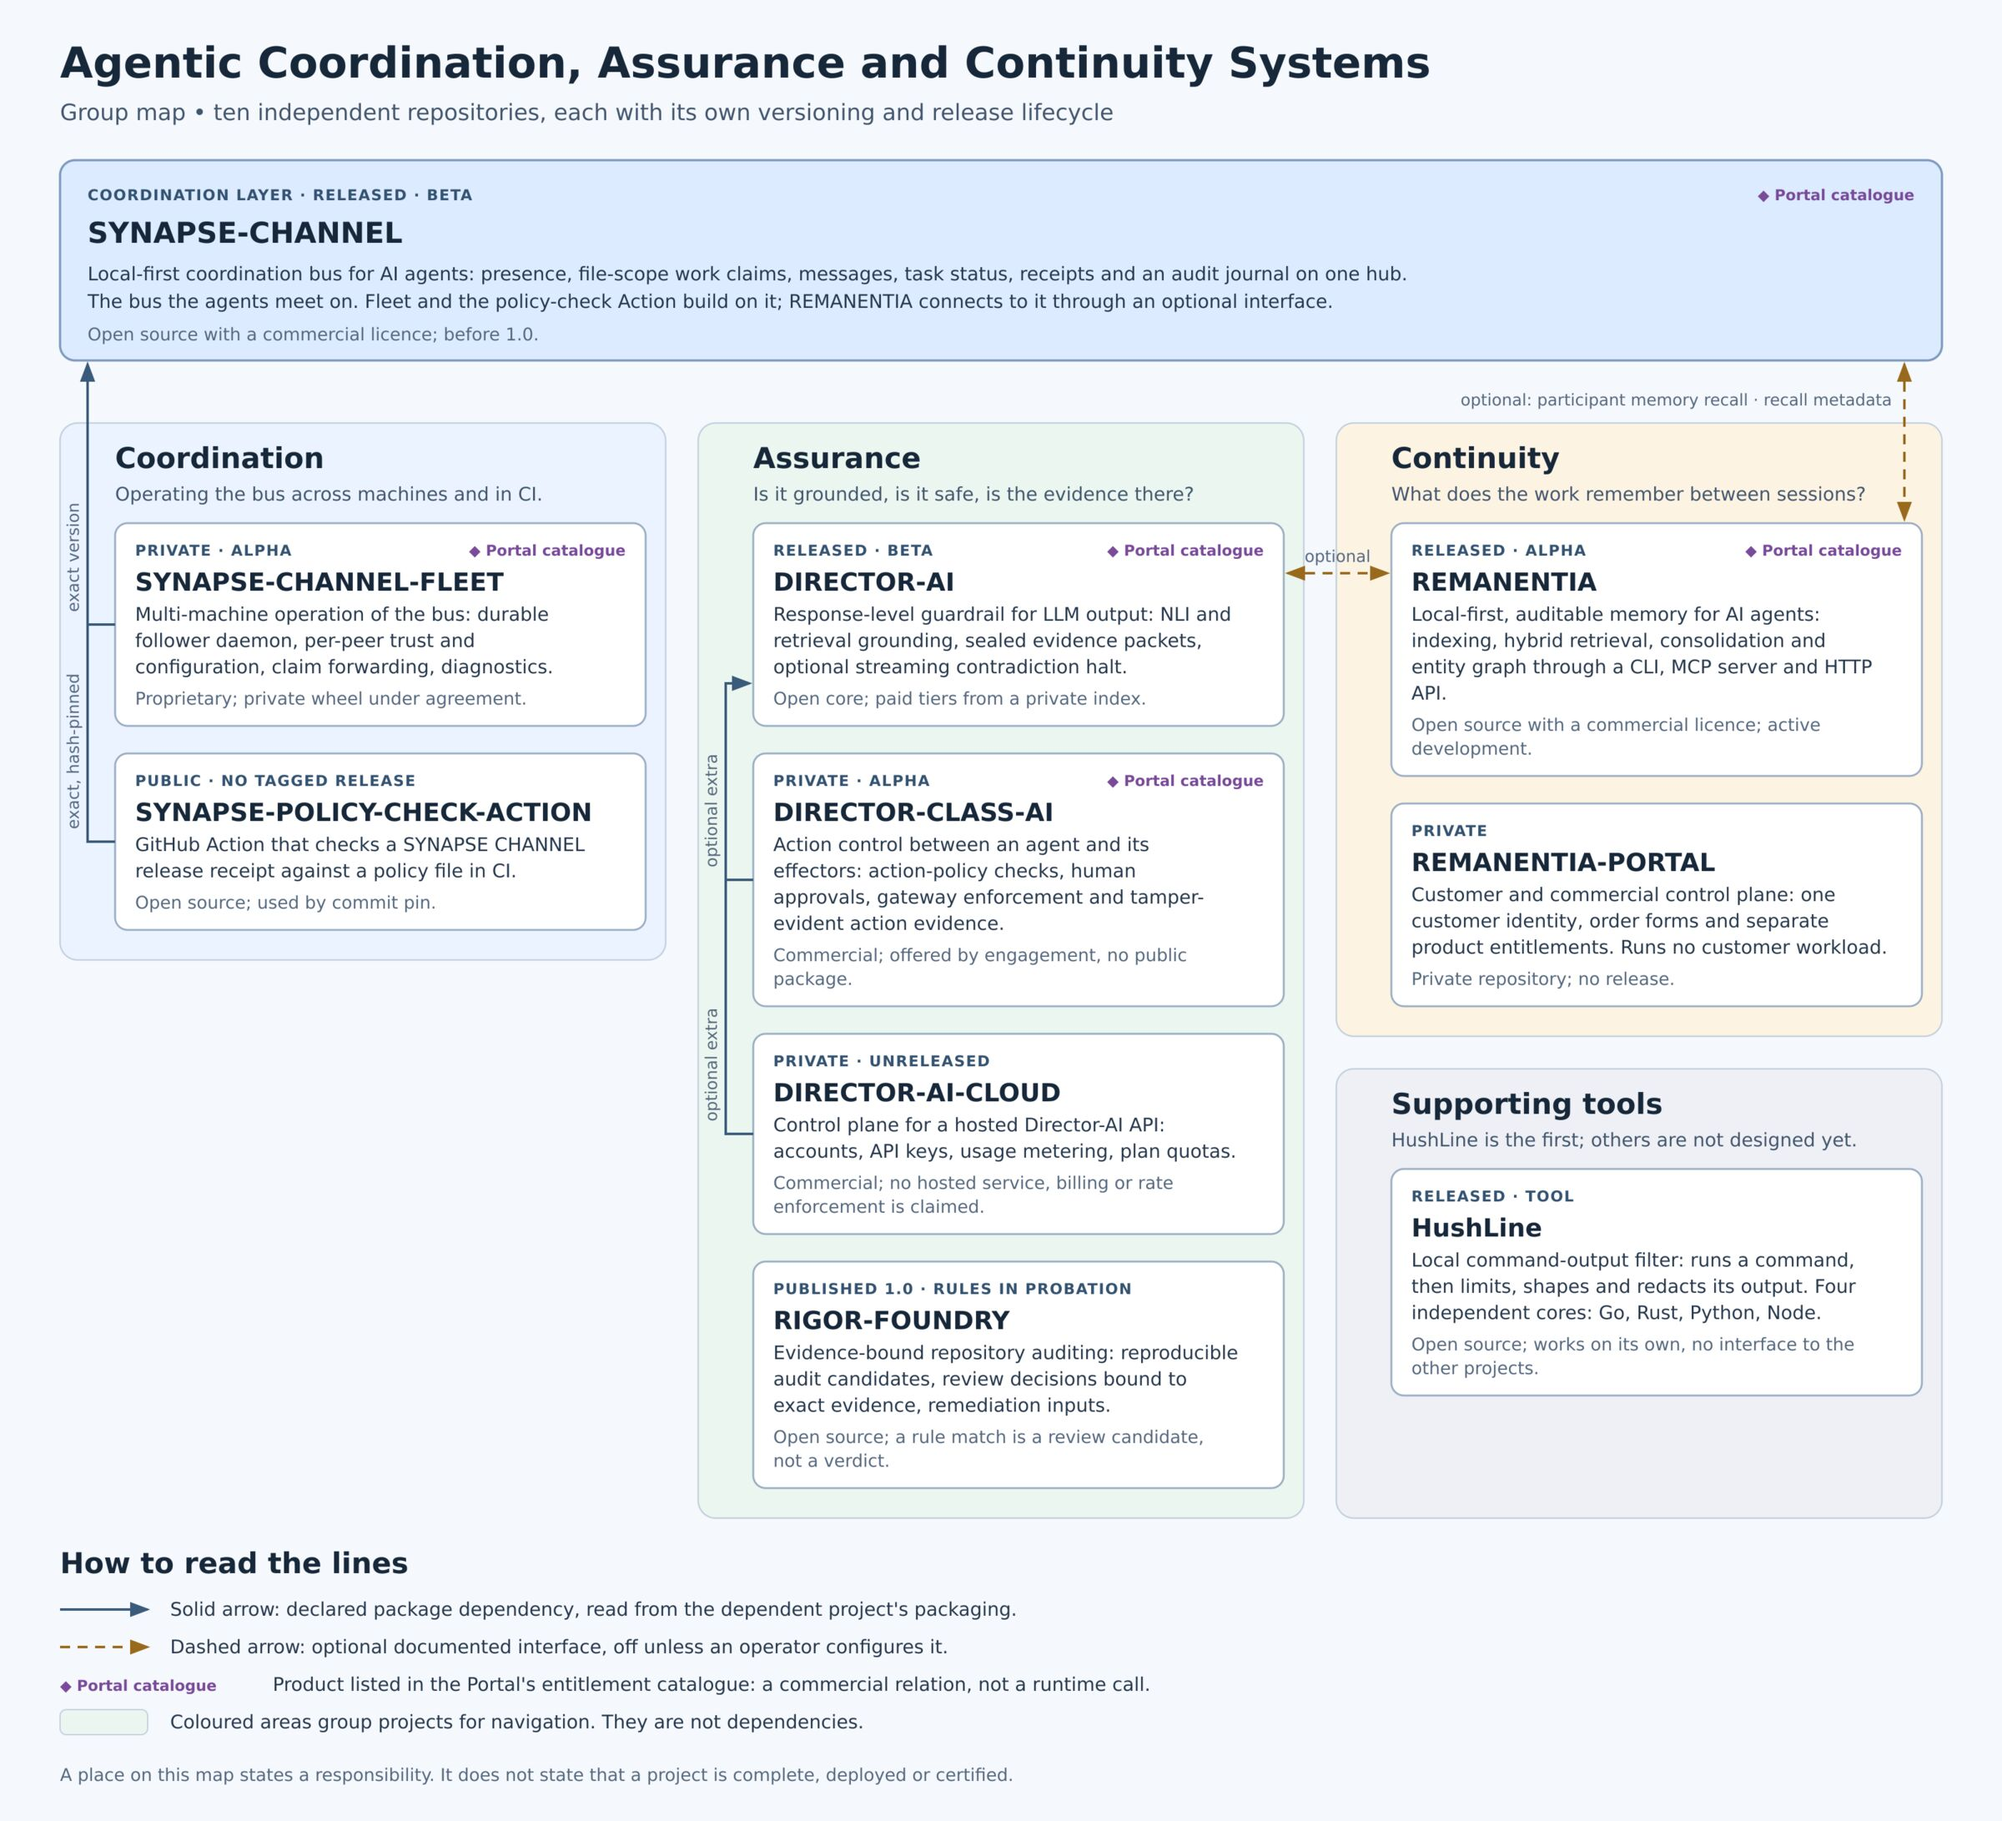
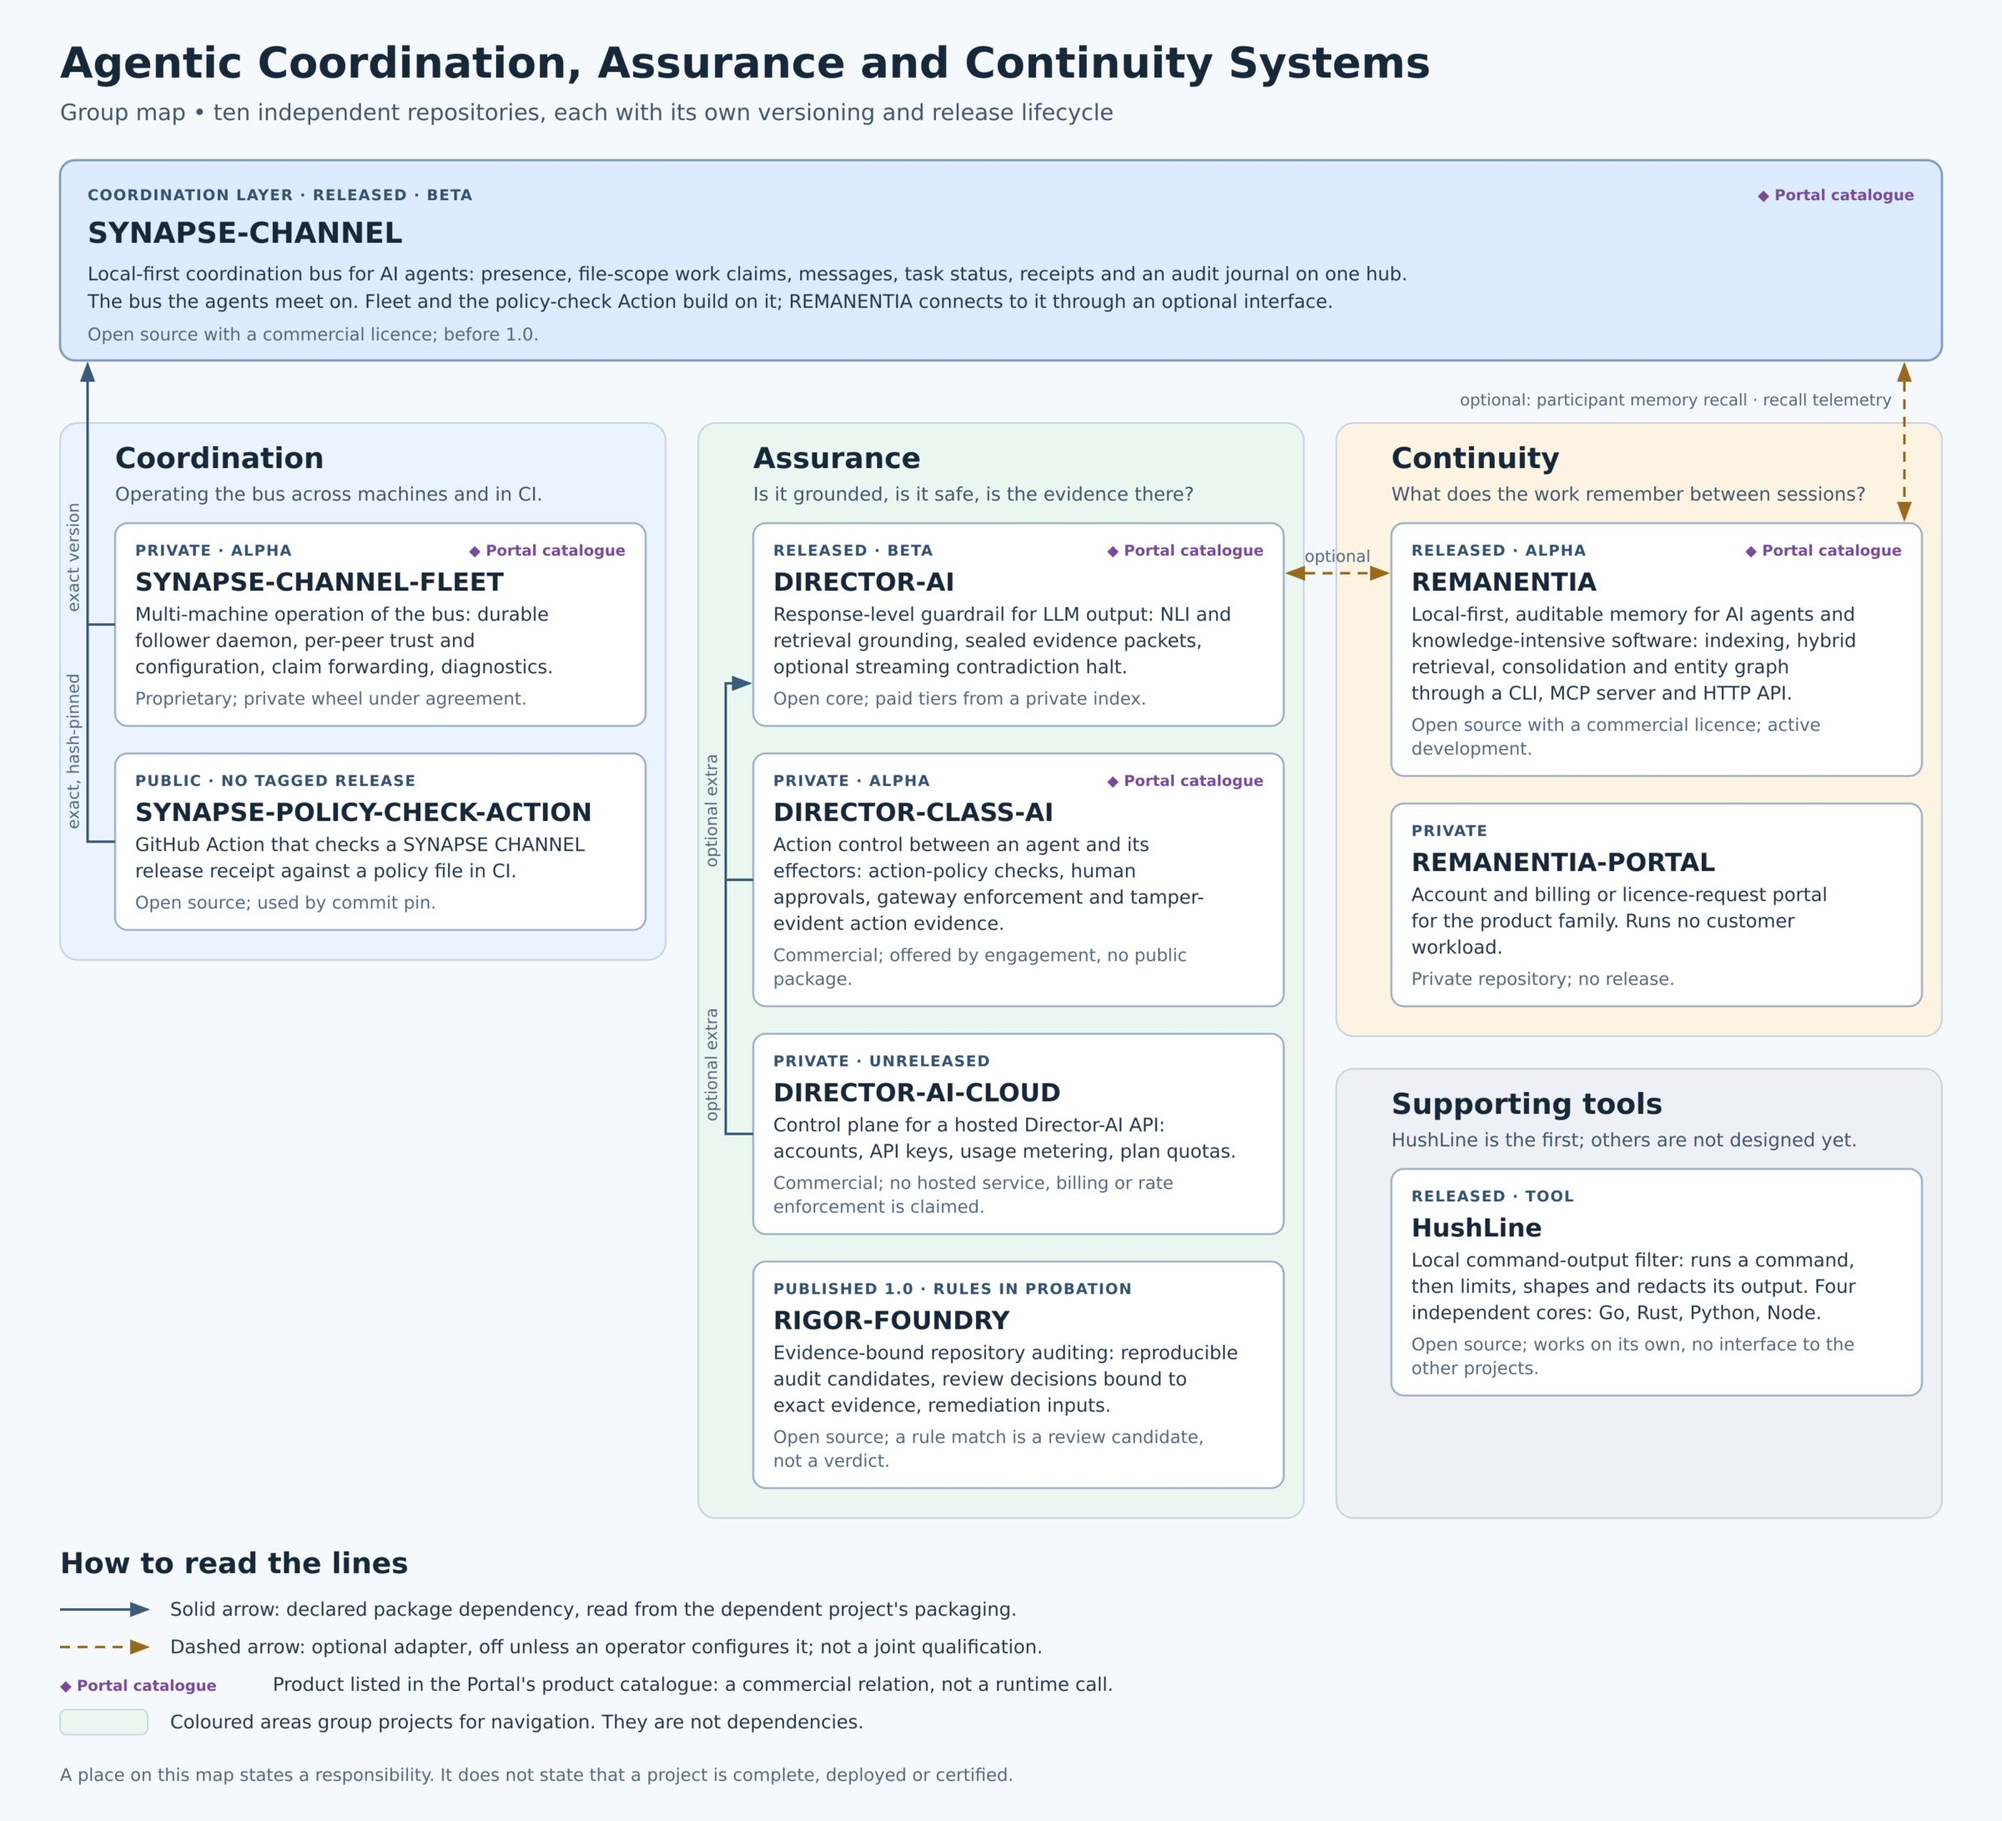
docs(group): state the Remanentia and Portal rows as their author gave them
The author of both projects reviewed the group map after it landed.

- REMANENTIA: the function names knowledge-intensive software, the row
  links the published package, and it carries no visibility label.
- REMANENTIA-PORTAL: described as an account and billing or
  licence-request portal; the row says that self-service entitlement
  issuance, refunds and live billing are not claimed.
- The optional link from REMANENTIA to a hub is recall-query and outcome
  telemetry that carries the query text, not content-free metadata.
- A dashed arrow marks an optional adapter that exists in source. The
  page now says it is not a statement of joint qualification.
- The Portal marker refers to its product catalogue.

The schematic and its PNG and JPG exports are regenerated with the same
wording.

Verification: the strict documentation build exited 0. No test was run
because no source or test changed.

Seat: f636
Authored by Anulum Fortis & Arcane Sapience (protoscience@anulum.li)

Changed region(s): [[0.6875, 0.4672, 0.9375, 0.5295], [0.2188, 0.9033, 0.5625, 0.9345], [0.6875, 0.3426, 0.9375, 0.4049]]

diff --git a/docs/ecosystem.md b/docs/ecosystem.md
@@ -46,7 +46,7 @@ releases and documentation are the current record.
 | Run several AI agents in one repository without overlapping edits | [SYNAPSE-CHANNEL](https://github.com/anulum/synapse-channel) |
 | Check that an LLM answer is grounded before it reaches a user | [DIRECTOR-AI](https://github.com/anulum/director-ai) |
 | Audit a repository with evidence bound to each finding | [RIGOR-FOUNDRY](https://github.com/anulum/rigor-foundry) |
-| Give agents memory that survives the session | [REMANENTIA](https://github.com/anulum/remanentia) |
+| Give agents memory that survives the session | [REMANENTIA](https://pypi.org/project/remanentia/) |
 | Keep noisy or sensitive command output away from an agent | [HushLine](https://github.com/anulum/HushLine) |
 
 ## The coordination layer
@@ -95,11 +95,11 @@ error does not stop an answer.
 
 | Repository | Function | Current status |
 | --- | --- | --- |
-| [REMANENTIA](https://github.com/anulum/remanentia) | Local-first, auditable memory for AI agents: indexing of project files, hybrid retrieval, consolidation and an entity graph, through a CLI, an MCP server and an HTTP API. | Public, AGPL-3.0-or-later with a commercial licence. Released on PyPI; alpha maturity, active development. |
-| REMANENTIA-PORTAL | Customer and commercial control plane for the product family: one customer identity, order forms and separate, auditable product entitlements. It runs no customer workload. | Private repository; no release. |
+| [REMANENTIA](https://pypi.org/project/remanentia/) | Local-first, auditable memory for AI agents and knowledge-intensive software: project-file indexing, hybrid retrieval, consolidation and an entity graph, through a CLI, an MCP server and an HTTP API. | AGPL-3.0-or-later with a commercial licence. Released on PyPI; alpha maturity and active development. |
+| REMANENTIA-PORTAL | Account and billing or licence-request portal for the product family. It runs no customer workload. | Private repository; no release. Self-service entitlement issuance, refunds and live billing are not claimed. |
 
 Remanentia owns memory, recall and consolidation. The Portal owns customer
-identity, orders and entitlements, and no product runtime logic.
+accounts and commercial requests, and no product runtime logic.
 
 ## Supporting tools
 
@@ -120,8 +120,11 @@ relation.
 | Mark | Meaning | Where |
 | --- | --- | --- |
 | Solid arrow | A package dependency declared in the dependent project's packaging. | SYNAPSE-CHANNEL-FLEET and SYNAPSE-POLICY-CHECK-ACTION depend on one exact SYNAPSE CHANNEL version. DIRECTOR-CLASS-AI and DIRECTOR-AI-CLOUD can use DIRECTOR-AI through an optional extra. |
-| Dashed arrow | An optional, documented interface that is off until an operator configures it. | SYNAPSE CHANNEL can query REMANENTIA for participant memory recall. REMANENTIA can send recall metadata to a SYNAPSE CHANNEL hub. DIRECTOR-AI can use REMANENTIA as a retrieval backend for grounding and can send it correctness feedback on recalled groundings. |
-| Portal catalogue marker | The product has an entry in the Portal's entitlement catalogue. This is a commercial relation and not a runtime call. | SYNAPSE-CHANNEL, SYNAPSE-CHANNEL-FLEET, DIRECTOR-AI, DIRECTOR-CLASS-AI and REMANENTIA. |
+| Dashed arrow | An optional, documented interface that is off until an operator configures it. | SYNAPSE CHANNEL can query REMANENTIA for participant memory recall. REMANENTIA can send recall-query and outcome telemetry, which carries the query text, to a SYNAPSE CHANNEL hub. DIRECTOR-AI can use REMANENTIA as a retrieval backend for grounding and can send it correctness feedback on recalled groundings. |
+| Portal catalogue marker | The product has an entry in the Portal's product catalogue. This is a commercial relation and not a runtime call. | SYNAPSE-CHANNEL, SYNAPSE-CHANNEL-FLEET, DIRECTOR-AI, DIRECTOR-CLASS-AI and REMANENTIA. |
+
+A dashed arrow marks an optional adapter that exists in source. It does not
+state that the two projects are jointly qualified or supported as one chain.
 
 The coloured areas group projects for navigation. They are not dependencies,
 and a project's place in an area does not make it part of another project.
